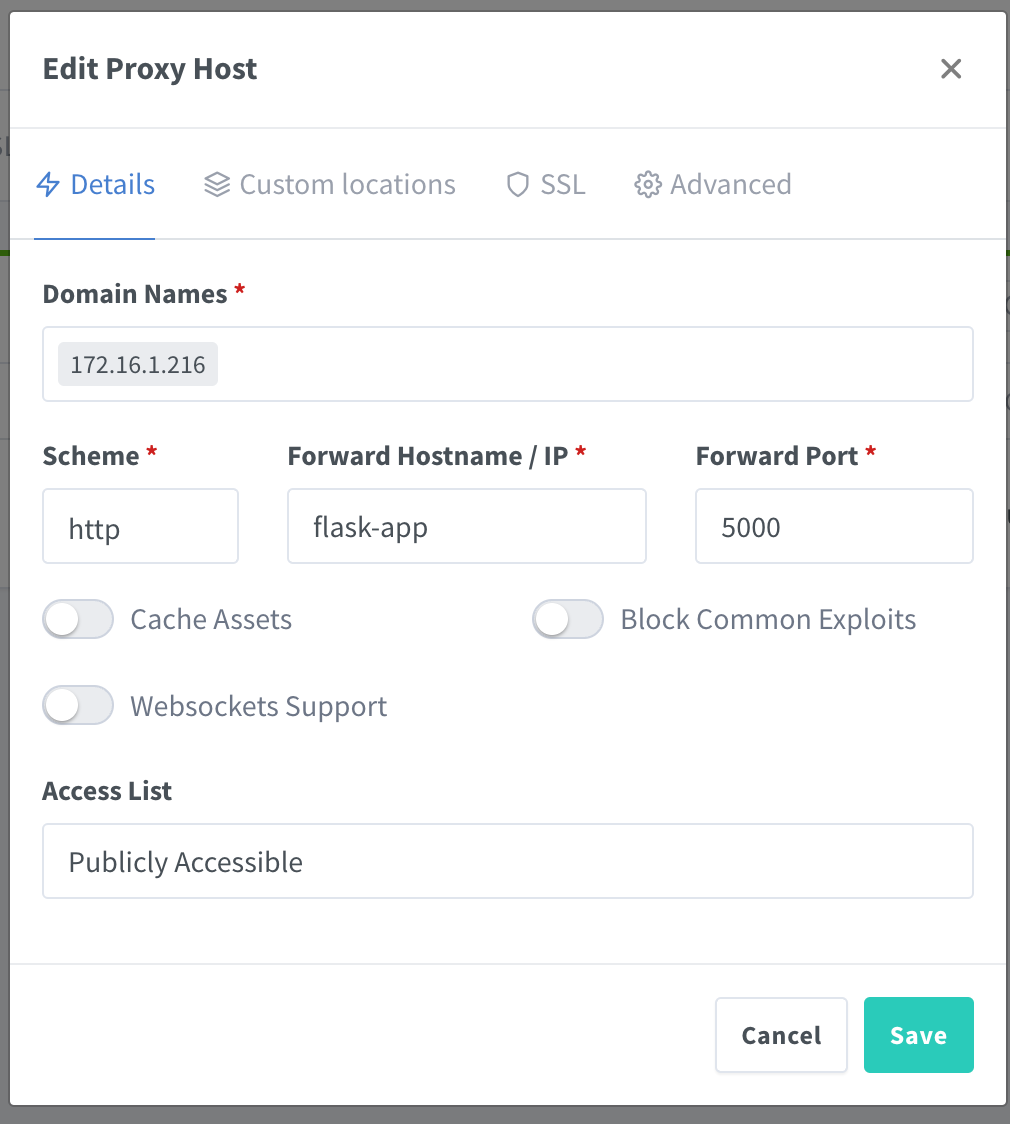
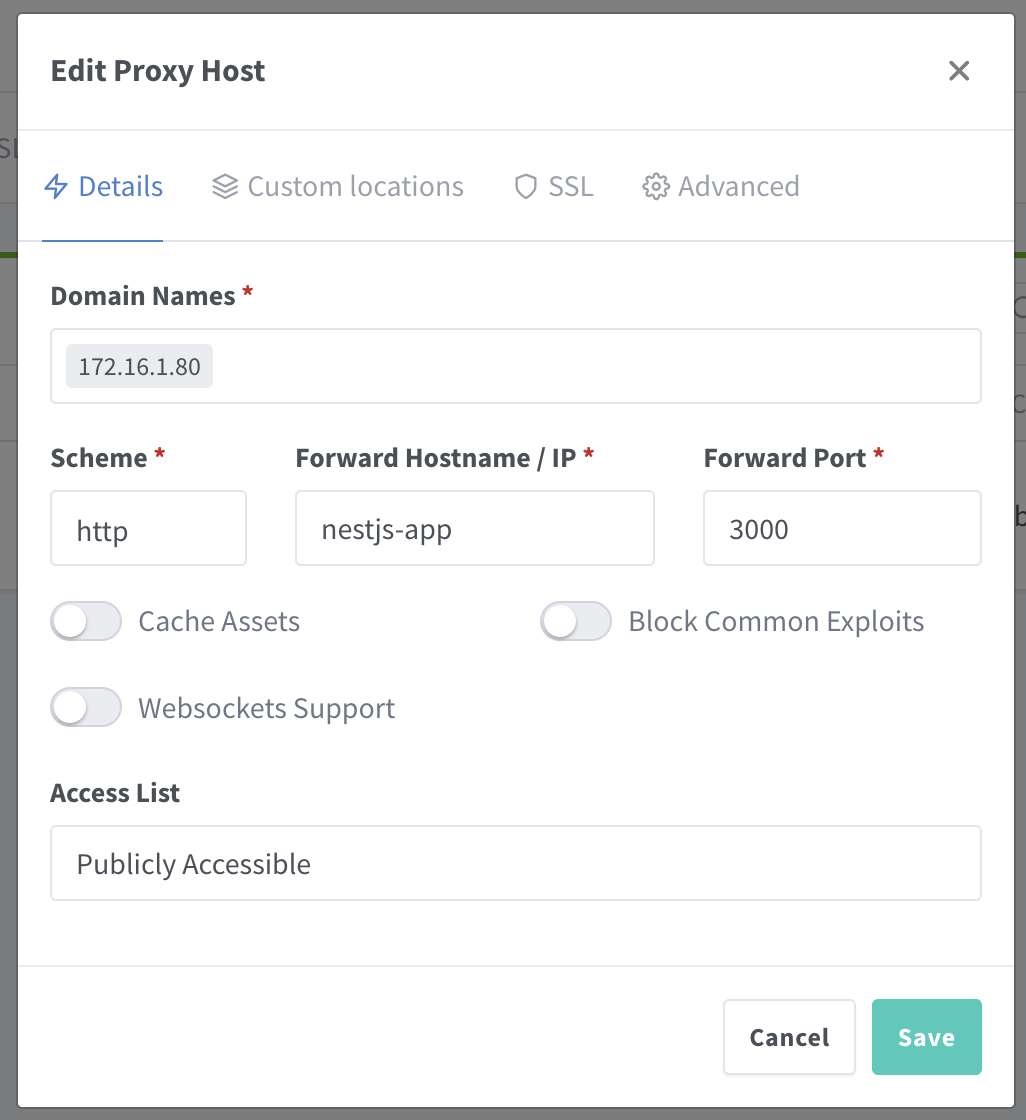
:memo: Update doc about nestjs

diff --git a/README.md b/README.md
@@ -112,7 +112,7 @@ docker-compose up
 ```
 Puis consulter l'url :
 
-```djangourlpath
+```url
 http://localhost:81/login
 ```
 
@@ -133,19 +133,19 @@ ipconfig (Windows : Recuperer adresse ip Eth0)
 ifconfig (Linux : Recuperer adresse ip en0)
 ```
 
-Ensuite je vais preciser dans forward hostname ip le nom de domaine interne de l'ap *flask-app* precisé dans le fichier *docker-compose.yaml*.
+Ensuite je vais preciser dans forward hostname ip le nom de domaine interne de l'ap *nestjs-app* precisé dans le fichier *docker-compose.yaml*.
 
 ```yaml
 services:
-  flask-app:
+  nestjs-app:
     build: . # Chemin vers le rÃ©pertoire contenant le Dockerfile de Flask
 ```
 
-Puis precisr le port que l'on a inscrit precedement dans le Dockerfile.
+Puis precisr le port de NestJs que l'on a inscrit precedement dans le Dockerfile.
 
 ```yaml
 # Expose le port sur lequel l'application s'exécutera
-EXPOSE 5000
+EXPOSE 3000
 ```
 
 ![img.png](assets/img.png)
@@ -164,7 +164,7 @@ Maintenant nous allons ouvrir un nouveau terminal puis executer la commande suiv
 docker-compose up -d --scale flask-app=3
 ```
 
-Trois nouvelles instance vont etre crée, vous pouvez ocnstater le resultat en regardant l'interface de docker ou en utilisant le terminal.
+Trois nouvelles instance vont etre crée, vous pouvez constater le resultat en regardant l'interface de docker ou en utilisant le terminal.
 
 
 
